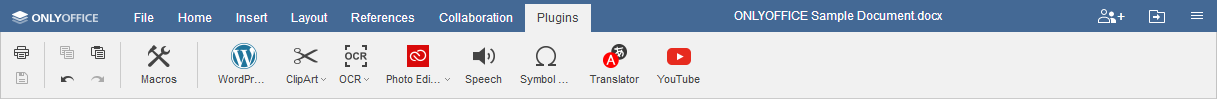
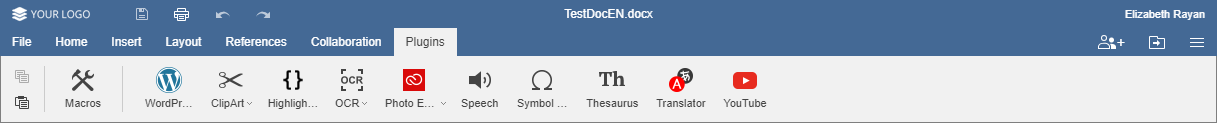
Recent changes to documentation (started merging of online, desktop and r7 documentation)

Changed region(s): [[0.0, 0.0303, 1.0, 1.0], [0.5933, 0.0909, 0.7806, 0.2121], [0.9055, 0.0606, 0.9992, 0.2424]]

diff --git a/OfficeWeb/apps/documenteditor/main/resources/help/ru/ProgramInterface/ProgramInterface.htm b/OfficeWeb/apps/documenteditor/main/resources/help/ru/ProgramInterface/ProgramInterface.htm
@@ -15,18 +15,39 @@
         </div>
 			<h1>Знакомство с пользовательским интерфейсом редактора документов</h1>
 			<p>В <b>редакторе документов</b> используется вкладочный интерфейс, в котором команды редактирования сгруппированы во вкладки по функциональности.</p>
-            <p><img alt="Окно редактора" src="../images/interface/editorwindow.png" /></p>
+            <div class="onlineDocumentFeatures">
+                <p>Окно онлайн-редактора документов:</p>
+                <p><img alt="Окно онлайн-редактора документов" src="../images/interface/editorwindow.png" /></p>
+            </div>
+            <div class="desktopDocumentFeatures">
+                <p>Окно десктопного редактора документов:</p>
+                <p><img alt="Окно десктопного редактора документов" src="../images/interface/desktop_editorwindow.png" /></p>
+            </div>
             <p>Интерфейс редактора состоит из следующих основных элементов:</p>
             <ol>
-                <li>В <b>Шапке редактора</b> отображается логотип, вкладки меню, название документа. Cправа также находятся три значка, с помощью которых можно <a href="../HelpfulHints/CollaborativeEditing.htm" onclick="onhyperlinkclick(this)">задать права доступа</a>, вернуться в список документов, настраивать <a href="../HelpfulHints/Navigation.htm" onclick="onhyperlinkclick(this)">параметры представления</a> и получать доступ к <a href="../HelpfulHints/AdvancedSettings.htm" onclick="onhyperlinkclick(this)">дополнительным параметрам</a> редактора.
-                <p><img alt="Значки в шапке редактора" src="../images/interface/rightpart.png" /></p>
+                <li>В <b>Шапке редактора</b> отображается логотип, <span class="desktopDocumentFeatures">вкладки открытых документов, </span> название документа и вкладки меню.
+                    <p>В левой части <b>Шапки редактора</b> расположены кнопки <b>Сохранить</b>, <b>Напечатать файл</b>, <b>Отменить</b> и <b>Повторить</b>.</p>
+                    <p><img alt="Значки в шапке редактора" src="../images/interface/leftpart.png" /></p>
+                    <p>В правой части <b>Шапки редактора</b> отображается имя пользователя и находятся следующие значки:</p>
+                    <ul>
+                        <li><img alt="Перейти к Документам" src="../images/gotodocuments.png" /> <b>Перейти к Документам</b>, с помощью которого <span class="desktopDocumentFeatures">в <em>десктопной версии</em> можно открыть окно <b>Проводника</b></span><span class="onlineDocumentFeatures">, в <em>онлайн-версии</em> можно вернуться к списку документов на портале</span>, чтобы выбрать другой файл.</li>
+                        <li><img alt="Значок Параметры представления" src="../images/viewsettingsicon.png" /> <b>Параметры представления</b>, с помощью которого можно настраивать <a href="../HelpfulHints/Navigation.htm" onclick="onhyperlinkclick(this)">параметры представления</a> и получать доступ к <a href="../HelpfulHints/AdvancedSettings.htm" onclick="onhyperlinkclick(this)">дополнительным параметрам</a> редактора.</li>
+                        <li><span class="desktopDocumentFeatures">После подключения к <em>онлайн-версии</em> также доступен значок</span> <img alt="Значок управления правами доступа" src="../images/access_rights.png" /> <b>Управление правами доступа</b>, с помощью которого можно <a href="../HelpfulHints/CollaborativeEditing.htm" onclick="onhyperlinkclick(this)">задать права доступа</a> к документам, сохраненным в облаке.</li>
+                    </ul>
+                    <!--<p><img alt="Значки в шапке редактора" src="../images/interface/rightpart.png" /></p>-->
                 </li>
-                <li>На <b>Верхней панели инструментов</b> отображается набор команд редактирования в зависимости от выбранной вкладки меню. В настоящее время доступны следующие вкладки: <a href="../ProgramInterface/FileTab.htm" onclick="onhyperlinkclick(this)">Файл</a>, <a href="../ProgramInterface/HomeTab.htm" onclick="onhyperlinkclick(this)">Главная</a>, <a href="../ProgramInterface/InsertTab.htm" onclick="onhyperlinkclick(this)">Вставка</a>, <a href="../ProgramInterface/LayoutTab.htm" onclick="onhyperlinkclick(this)">Макет</a>, <a href="../ProgramInterface/ReferencesTab.htm" onclick="onhyperlinkclick(this)">Ссылки</a>, <a href="../ProgramInterface/ReviewTab.htm" onclick="onhyperlinkclick(this)">Совместная работа</a>, <a href="../ProgramInterface/PluginsTab.htm" onclick="onhyperlinkclick(this)">Плагины</a>.
-                <p>Опции <b>Печать</b>, <b>Сохранить</b>, <b>Копировать</b>, <b>Вставить</b>, <b>Отменить</b> и <b>Повторить</b> всегда доступны в левой части <b>Верхней панели инструментов</b>, независимо от выбранной вкладки.</p>
-                <p><img alt="Значки на верхней панели инструментов" src="../images/interface/leftpart.png" /></p>
+                <li>На <b>Верхней панели инструментов</b> отображается набор команд редактирования в зависимости от выбранной вкладки меню. В настоящее время доступны следующие вкладки: <a href="../ProgramInterface/FileTab.htm" onclick="onhyperlinkclick(this)">Файл</a>, <a href="../ProgramInterface/HomeTab.htm" onclick="onhyperlinkclick(this)">Главная</a>, <a href="../ProgramInterface/InsertTab.htm" onclick="onhyperlinkclick(this)">Вставка</a>, <a href="../ProgramInterface/LayoutTab.htm" onclick="onhyperlinkclick(this)">Макет</a>, <a href="../ProgramInterface/ReferencesTab.htm" onclick="onhyperlinkclick(this)">Ссылки</a>, <a href="../ProgramInterface/ReviewTab.htm" onclick="onhyperlinkclick(this)">Совместная работа</a>, <span class="desktopDocumentFeatures">Защита</span>, <a href="../ProgramInterface/PluginsTab.htm" onclick="onhyperlinkclick(this)">Плагины</a>.
+                <p>Опции <img alt="Значок Копировать" src="../images/copy.png" /> <b>Копировать</b> и <img alt="Значок Вставить" src="../images/paste.png" /> <b>Вставить</b> всегда доступны в левой части <b>Верхней панели инструментов</b>, независимо от выбранной вкладки.</p>
                 </li>
                 <li>В <b>Строке состояния</b>, расположенной внизу окна редактора, находится указатель номера страницы, отображаются некоторые оповещения (например, "Все изменения сохранены" и т.д.), с ее помощью также можно <a href="../HelpfulHints/SpellChecking.htm" onclick="onhyperlinkclick(this)">задать язык текста, включить проверку орфографии</a>, включить <a href="../HelpfulHints/Review.htm" onclick="onhyperlinkclick(this)">режим отслеживания изменений</a>, настроить <a href="../HelpfulHints/Navigation.htm" onclick="onhyperlinkclick(this)">масштаб</a>.</li>
-                <li>На <b>Левой боковой панели</b> находятся значки, позволяющие использовать инструмент <a href="../HelpfulHints/Search.htm" onclick="onhyperlinkclick(this)">поиска и замены</a>, открыть панель <a href="../HelpfulHints/CollaborativeEditing.htm#comments" onclick="onhyperlinkclick(this)">Комментариев</a> и <a href="../HelpfulHints/CollaborativeEditing.htm#chat" onclick="onhyperlinkclick(this)">Чата</a>, обратиться в службу технической поддержки и посмотреть информацию о программе.</li>
+                <li>На <b>Левой боковой панели</b> находятся следующие значки: 
+                <ul>
+                    <li><img alt="Значок Поиск" src="../images/searchicon.png" /> - позволяет использовать инструмент <a href="../HelpfulHints/Search.htm" onclick="onhyperlinkclick(this)">поиска и замены</a>,</li>
+                    <li><img alt="Значок Комментариев" src="../images/commentsicon.png" /> - позволяет открыть панель <a href="../HelpfulHints/CollaborativeEditing.htm#comments" onclick="onhyperlinkclick(this)">Комментариев</a></li>
+                    <li><img alt="Значок Навигация" src="../images/navigationicon.png" /> - позволяет перейти в панель <a href="../UsageInstructions/CreateTableOfContents.htm" onclick="onhyperlinkclick(this)">Навигации</a> для управления заголовками</li>
+                    <li><span class="desktopDocumentFeatures">После подключения к <em>онлайн-версии</em> также доступен значок</span> <img alt="Значок Чата" src="../images/chaticon.png" />, позволяющий открыть панель <a href="../HelpfulHints/CollaborativeEditing.htm#chat" onclick="onhyperlinkclick(this)">Чата</a>, а также значки, позволяющие обратиться в службу технической поддержки и посмотреть информацию о программе.</li>
+                </ul>
+                </li>
                 <li><b>Правая боковая панель</b> позволяет настроить дополнительные параметры различных объектов. При выделении в тексте определенного объекта активируется соответствующий значок на правой боковой панели. Нажмите на этот значок, чтобы развернуть правую боковую панель.</li>
                 <li>Горизонтальная и вертикальная <b>Линейки</b> позволяют выравнивать текст и другие элементы в документе, настраивать поля, позиции табуляции и отступы абзацев.</li>
                 <li>В <b>Рабочей области</b> вы можете просматривать содержимое документа, вводить и редактировать данные.</li>

diff --git a/OfficeWeb/apps/documenteditor/main/resources/help/en/ProgramInterface/ProgramInterface.htm b/OfficeWeb/apps/documenteditor/main/resources/help/en/ProgramInterface/ProgramInterface.htm
@@ -15,18 +15,39 @@
         </div>
 			<h1>Introducing the Document Editor user interface</h1>
 			<p><b>Document Editor</b> uses a tabbed interface where editing commands are grouped into tabs by functionality.</p>
-            <p><img alt="Editor window" src="../images/interface/editorwindow.png" /></p>
+            <div class="onlineDocumentFeatures">
+                <p>Online Document Editor window:</p>
+                <p><img alt="Online Document Editor window" src="../images/interface/editorwindow.png" /></p>
+            </div>
+            <div class="desktopDocumentFeatures">
+                <p>Desktop Document Editor window:</p>
+                <p><img alt="Desktop Document Editor window" src="../images/interface/desktop_editorwindow.png" /></p>
+            </div>
             <p>The editor interface consists of the following main elements:</p>
             <ol>
-                <li><b>Editor header</b> displays the logo, menu tabs, document name as well as three icons on the right that allow to <a href="../HelpfulHints/CollaborativeEditing.htm" onclick="onhyperlinkclick(this)">set access rights</a>, return to the Documents list, adjust <a href="../HelpfulHints/Navigation.htm" onclick="onhyperlinkclick(this)">View Settings</a> and access the editor <a href="../HelpfulHints/AdvancedSettings.htm" onclick="onhyperlinkclick(this)">Advanced Settings</a>.
-                <p><img alt="Icons in the editor header" src="../images/interface/rightpart.png" /></p>
+                <li><b>Editor header</b> displays the logo, <span class="desktopDocumentFeatures">opened documents tabs, </span>document name and menu tabs.
+                    <p>In the left part of the <b>Editor header</b> there are the <b>Save</b>, <b>Print file</b>, <b>Undo</b> and <b>Redo</b> buttons.</p>
+                    <p><img alt="Icons in the editor header" src="../images/interface/leftpart.png" /></p>
+                    <p>In the right part of the <b>Editor header</b> the user name is displayed as well as the following icons:</p>
+                    <ul>
+                        <li><img alt="Go to Documents" src="../images/gotodocuments.png" /> <b>Go to Documents</b> - <span class="desktopDocumentFeatures">in the <em>desktop version</em>, it allows to open the <b>File explorer</b> window,</span> <span class="onlineDocumentFeatures">in the <em>online version</em> it allows to return to the portal documents list</span> to choose another file.</li>
+                        <li><img alt="View Settings icon" src="../images/viewsettingsicon.png" /> - allows to adjust <a href="../HelpfulHints/Navigation.htm" onclick="onhyperlinkclick(this)">View Settings</a> and access the editor <a href="../HelpfulHints/AdvancedSettings.htm" onclick="onhyperlinkclick(this)">Advanced Settings</a>.</li>
+                        <li><span class="desktopDocumentFeatures">After connecting to the <em>online version</em>, the following icon is also available:</span> <img alt="Manage document access rights icon" src="../images/access_rights.png" /> <b>Manage document access rights</b> - allows to <a href="../HelpfulHints/CollaborativeEditing.htm" onclick="onhyperlinkclick(this)">set access rights</a> for the documents stored in the cloud.</li>
+                    </ul>
+                    <!--<p><img alt="Icons in the editor header" src="../images/interface/rightpart.png" /></p>-->
                 </li>
-                <li><b>Top toolbar</b> displays a set of editing commands depending on the selected menu tab. Currently, the following tabs are available: <a href="../ProgramInterface/FileTab.htm" onclick="onhyperlinkclick(this)">File</a>, <a href="../ProgramInterface/HomeTab.htm" onclick="onhyperlinkclick(this)">Home</a>, <a href="../ProgramInterface/InsertTab.htm" onclick="onhyperlinkclick(this)">Insert</a>, <a href="../ProgramInterface/LayoutTab.htm" onclick="onhyperlinkclick(this)">Layout</a>, <a href="../ProgramInterface/ReferencesTab.htm" onclick="onhyperlinkclick(this)">References</a>, <a href="../ProgramInterface/ReviewTab.htm" onclick="onhyperlinkclick(this)">Collaboration</a>, <a href="../ProgramInterface/PluginsTab.htm" onclick="onhyperlinkclick(this)">Plugins</a>.
-                <p>The <b>Print</b>, <b>Save</b>, <b>Copy</b>, <b>Paste</b>, <b>Undo</b> and <b>Redo</b> options are always available at the left part of the <b>Top toolbar</b> regardless of the selected tab.</p>
-                <p><img alt="Icons on the top toolbar" src="../images/interface/leftpart.png" /></p>
+                <li><b>Top toolbar</b> displays a set of editing commands depending on the selected menu tab. Currently, the following tabs are available: <a href="../ProgramInterface/FileTab.htm" onclick="onhyperlinkclick(this)">File</a>, <a href="../ProgramInterface/HomeTab.htm" onclick="onhyperlinkclick(this)">Home</a>, <a href="../ProgramInterface/InsertTab.htm" onclick="onhyperlinkclick(this)">Insert</a>, <a href="../ProgramInterface/LayoutTab.htm" onclick="onhyperlinkclick(this)">Layout</a>, <a href="../ProgramInterface/ReferencesTab.htm" onclick="onhyperlinkclick(this)">References</a>, <a href="../ProgramInterface/ReviewTab.htm" onclick="onhyperlinkclick(this)">Collaboration</a>, <span class="desktopDocumentFeatures">Protection</span>, <a href="../ProgramInterface/PluginsTab.htm" onclick="onhyperlinkclick(this)">Plugins</a>.
+                <p>The <img alt="Copy icon" src="../images/copy.png" /> <b>Copy</b> and <img alt="Paste icon" src="../images/paste.png" /> <b>Paste</b> options are always available at the left part of the <b>Top toolbar</b> regardless of the selected tab.</p>
                 </li>
                 <li><b>Status bar</b> at the bottom of the editor window contains the page number indicator, displays some notifications (such as "All changes saved" etc.), allows to <a href="../HelpfulHints/SpellChecking.htm" onclick="onhyperlinkclick(this)">set text language, enable spell checking</a>, turn on the <a href="../HelpfulHints/Review.htm" onclick="onhyperlinkclick(this)">track changes mode</a>, adjust <a href="../HelpfulHints/Navigation.htm" onclick="onhyperlinkclick(this)">zoom</a>.</li>
-                <li><b>Left sidebar</b> contains icons that allow to use the <a href="../HelpfulHints/Search.htm" onclick="onhyperlinkclick(this)">Search and Replace</a> tool, open the <a href="../HelpfulHints/CollaborativeEditing.htm#comments" onclick="onhyperlinkclick(this)">Comments</a>, <a href="../HelpfulHints/CollaborativeEditing.htm#chat" onclick="onhyperlinkclick(this)">Chat</a> and <a href="../UsageInstructions/CreateTableOfContents.htm#navigation" onclick="onhyperlinkclick(this)">Navigation</a> panel, contact our support team and view the information about the program.</li>
+                <li><b>Left sidebar</b> contains the following icons: 
+                    <ul>
+                        <li><img alt="Search icon" src="../images/searchicon.png" /> - allows to use the <a href="../HelpfulHints/Search.htm" onclick="onhyperlinkclick(this)">Search and Replace</a> tool,</li>
+                        <li><img alt="Comments icon" src="../images/commentsicon.png" /> - allows to open the <a href="../HelpfulHints/CollaborativeEditing.htm#comments" onclick="onhyperlinkclick(this)">Comments</a> panel,</li>
+                        <li><img alt="Navigation icon" src="../images/navigationicon.png" /> - allows to go to the <a href="../UsageInstructions/CreateTableOfContents.htm#navigation" onclick="onhyperlinkclick(this)">Navigation</a> panel and manage headings,</li>
+                        <li><span class="desktopDocumentFeatures">After connecting to the <em>online version</em>, the following icon is also available:</span> <img alt="Chat icon" src="../images/chaticon.png" /> that allows to open the <a href="../HelpfulHints/CollaborativeEditing.htm#chat" onclick="onhyperlinkclick(this)">Chat</a> panel, as well as the icons that allow to contact our support team and view the information about the program.</li>
+                    </ul>
+                </li>
                 <li><b>Right sidebar</b> allows to adjust additional parameters of different objects. When you select a particular object in the text, the corresponding icon is activated at the right sidebar. Click this icon to expand the right sidebar.</li>
                 <li>Horizontal and vertical <b>Rulers</b> allow to align text and other elements in a document, set up margins, tab stops, and paragraph indents.</li>
                 <li><b>Working area</b> allows to view document content, enter and edit data.</li>

diff --git a/OfficeWeb/apps/documenteditor/main/resources/help/ru/ProgramInterface/FileTab.htm b/OfficeWeb/apps/documenteditor/main/resources/help/ru/ProgramInterface/FileTab.htm
@@ -18,13 +18,16 @@
             <p><img alt="Вкладка Файл" src="../images/interface/filetab.png" /></p>
             <p>С помощью этой вкладки вы можете выполнить следующие действия:</p>
             <ul>
-                <li><a href="../UsageInstructions/SavePrintDownload.htm" onclick="onhyperlinkclick(this)">сохранить</a> текущий файл (если отключена опция <b>Автосохранение</b>), <a href="../UsageInstructions/SavePrintDownload.htm" onclick="onhyperlinkclick(this)">скачать, распечатать</a> или <a href="../UsageInstructions/ViewDocInfo.htm" onclick="onhyperlinkclick(this)">переименовать</a> его,</li>
-                <li><a href="../UsageInstructions/OpenCreateNew.htm" onclick="onhyperlinkclick(this)">создать</a> новый документ или открыть недавно отредактированный,</li>
+                <li><span class="onlineDocumentFeatures">в <em>онлайн-версии</em> <a href="../UsageInstructions/SavePrintDownload.htm" onclick="onhyperlinkclick(this)">сохранить</a> текущий файл (если отключена опция <b>Автосохранение</b>), <a href="../UsageInstructions/SavePrintDownload.htm" onclick="onhyperlinkclick(this)">скачать как</a> (сохранить документ в выбранном формате на жестком диске компьютера), <a href="../UsageInstructions/SavePrintDownload.htm" onclick="onhyperlinkclick(this)">сохранить копию как</a>  (сохранить копию документа в выбранном формате на портале), <a href="../UsageInstructions/SavePrintDownload.htm" onclick="onhyperlinkclick(this)">распечатать</a> или <a href="../UsageInstructions/ViewDocInfo.htm" onclick="onhyperlinkclick(this)">переименовать</a> его,</span>
+                <p class="desktopDocumentFeatures">в <em>десктопной версии</em> <a href="../UsageInstructions/SavePrintDownload.htm" onclick="onhyperlinkclick(this)">сохранить</a> текущий файл в текущем формате и местоположении с помощью опции <b>Сохранить</b>, сохранить файл под другим именем, в другом местоположении или в другом формате с помощью опции <b> Сохранить как</b>, <a href="../UsageInstructions/SavePrintDownload.htm" onclick="onhyperlinkclick(this)">распечатать</a> файл,</p>
+                </li>
+                <li class="desktopDocumentFeatures">защитить файл с помощью пароля, изменить или удалить пароль (доступно только в <em>десктопной версии</em>);</li>
+                <li><a href="../UsageInstructions/OpenCreateNew.htm" onclick="onhyperlinkclick(this)">создать</a> новый документ или открыть недавно отредактированный <span class="desktopDocumentFeatures">(доступно после подключения к <em>онлайн-версии</em>)</span>,</li>
                 <li>просмотреть <a href="../UsageInstructions/ViewDocInfo.htm" onclick="onhyperlinkclick(this)">общие сведения</a> о документе,</li>
-                <li>управлять <a href="../UsageInstructions/ViewDocInfo.htm" onclick="onhyperlinkclick(this)">правами доступа</a>,</li>
-                <li>отслеживать <a href="../UsageInstructions/ViewDocInfo.htm" onclick="onhyperlinkclick(this)">историю версий</a>,</li>
+                <li>управлять <a href="../UsageInstructions/ViewDocInfo.htm" onclick="onhyperlinkclick(this)">правами доступа</a> <span class="desktopDocumentFeatures">(доступно после подключения к <em>онлайн-версии</em>)</span>,</li>
+                <li>отслеживать <a href="../UsageInstructions/ViewDocInfo.htm" onclick="onhyperlinkclick(this)">историю версий</a> <span class="desktopDocumentFeatures">(доступно после подключения к <em>онлайн-версии</em>)</span>,</li>
                 <li>открыть <a href="../HelpfulHints/AdvancedSettings.htm" onclick="onhyperlinkclick(this)">дополнительные параметры</a> редактора,</li>
-                <li>вернуться в список документов.</li>
+                <li><span class="desktopDocumentFeatures">в <em>десктопной версии</em> открыть окно <b>Проводника</b>,</span><span class="onlineDocumentFeatures"> в <em>онлайн-версии</em> вернуться к списку документов на портале, чтобы выбрать другой файл</span>.</li>
             </ul>
 		</div>
 	</body>

diff --git a/OfficeWeb/apps/documenteditor/main/resources/help/ru/ProgramInterface/PluginsTab.htm b/OfficeWeb/apps/documenteditor/main/resources/help/ru/ProgramInterface/PluginsTab.htm
@@ -19,13 +19,15 @@
             <p>Кнопка <b>Macros</b> позволяет открыть окно, в котором можно создавать собственные макросы и запускать их. Для получения дополнительной информации о макросах, пожалуйста, обратитесь к нашей <a target="_blank" href="https://api.onlyoffice.com/plugin/macros" onclick="onhyperlinkclick(this)">Документации по API</a>.</p>
             <p>В настоящее время по умолчанию доступны следующие плагины:</p>		
             <ul>
-                <li><b>ClipArt</b> позволяет добавлять в документ изображения из коллекции картинок,</li>
-                <li><b>OCR</b> позволяет распознавать текст с картинки и вставлять его в текст документа,</li>
-                <li><b>PhotoEditor</b> позволяет редактировать изображения: обрезать, изменять размер, применять эффекты и так далее,</li>
-                <li><b>Speech</b> позволяет преобразовать выделенный текст в речь,</li>
-                <li><b>Symbol Table</b> позволяет вставлять в текст специальные символы,</li>
-                <li><b>Translator</b> позволяет переводить выделенный текст на другие языки,</li>
-                <li><b>YouTube</b> позволяет встраивать в документ видео с YouTube.</li>
+                <li><b>Клипарт</b> - позволяет добавлять в документ изображения из коллекции картинок,</li>
+                <li><b>Подсветка кода</b> - позволяет подсвечивать синтаксис кода, выбирая нужный язык, стиль, цвет фона,</li>
+                <li><b>Распознавание текста</b> - позволяет распознавать текст с картинки и вставлять его в текст документа,</li>
+                <li><b>Фоторедактор</b> - позволяет редактировать изображения: обрезать, изменять размер, применять эффекты и так далее,</li>
+                <li><b>Речь</b> - позволяет преобразовать выделенный текст в речь,</li>
+                <li><b>Таблица символов</b> - позволяет вставлять в текст специальные символы,</li>
+                <li><b>Синонимы</b> - позволяет находить синонимы и антонимы какого-либо слова и заменять его на выбранный вариант,</li>
+                <li><b>Переводчик</b> - позволяет переводить выделенный текст на другие языки,</li>
+                <li><b>YouTube</b> - позволяет встраивать в документ видео с YouTube.</li>
             </ul>
             <p>Плагины <b>Wordpress</b> и <b>EasyBib</b> можно использовать, если подключить соответствующие сервисы в настройках портала. Можно воспользоваться следующими инструкциями <a target="_blank" href="https://helpcenter.onlyoffice.com/server/windows/community/authorization-keys.aspx" onclick="onhyperlinkclick(this)">для серверной версии</a> или <a target="_blank" href="https://helpcenter.onlyoffice.com/tipstricks/authorization-keys-saas.aspx" onclick="onhyperlinkclick(this)">для SaaS-версии</a>. </p>
             <p>Для получения дополнительной информации о плагинах, пожалуйста, обратитесь к нашей <a target="_blank" href="https://api.onlyoffice.com/plugin/basic" onclick="onhyperlinkclick(this)">Документации по API</a>. Все существующие в настоящий момент примеры плагинов с открытым исходным кодом доступны на <a target="_blank" href="https://github.com/ONLYOFFICE/sdkjs-plugins" onclick="onhyperlinkclick(this)">GitHub</a>.</p>

diff --git a/OfficeWeb/apps/documenteditor/main/resources/help/en/ProgramInterface/FileTab.htm b/OfficeWeb/apps/documenteditor/main/resources/help/en/ProgramInterface/FileTab.htm
@@ -18,13 +18,16 @@
             <p><img alt="File tab" src="../images/interface/filetab.png" /></p>
             <p>Using this tab, you can:</p>
             <ul>
-                <li><a href="../UsageInstructions/SavePrintDownload.htm" onclick="onhyperlinkclick(this)">save</a> the current file (in case the <b>Autosave</b> option is disabled), <a href="../UsageInstructions/SavePrintDownload.htm" onclick="onhyperlinkclick(this)">download, print</a> or <a href="../UsageInstructions/ViewDocInfo.htm" onclick="onhyperlinkclick(this)">rename</a> it,</li>
-                <li><a href="../UsageInstructions/OpenCreateNew.htm" onclick="onhyperlinkclick(this)">create</a> a new document or open a recently edited one,</li>
+                <li><span class="onlineDocumentFeatures">in the <em>online version</em>, <a href="../UsageInstructions/SavePrintDownload.htm" onclick="onhyperlinkclick(this)">save</a> the current file (in case the <b>Autosave</b> option is disabled), <a href="../UsageInstructions/SavePrintDownload.htm" onclick="onhyperlinkclick(this)">download as</a> (save the document in the selected format to the computer hard disk drive), <a href="../UsageInstructions/SavePrintDownload.htm" onclick="onhyperlinkclick(this)">save copy as</a> (save a copy of the document in the selected format to the portal documents), <a href="../UsageInstructions/SavePrintDownload.htm" onclick="onhyperlinkclick(this)">print</a> or <a href="../UsageInstructions/ViewDocInfo.htm" onclick="onhyperlinkclick(this)">rename</a> it,</span>
+                <p class="desktopDocumentFeatures">in the <em>desktop version</em>, <a href="../UsageInstructions/SavePrintDownload.htm" onclick="onhyperlinkclick(this)">save</a> the current file keeping the current format and location using the <b>Save</b> option or save the current file with a different name, location or format using the <b>Save as</b> option, <a href="../UsageInstructions/SavePrintDownload.htm" onclick="onhyperlinkclick(this)">print</a> the file.</p>
+                </li>
+                <li><a href="../UsageInstructions/OpenCreateNew.htm" onclick="onhyperlinkclick(this)">create</a> a new document or open a recently edited one <span class="desktopDocumentFeatures">(available after connecting to the <em>online version</em>)</span>,</li>
+                <li class="desktopDocumentFeatures">protect the file using a password (available in the <em>desktop version</em> only);</li>
                 <li>view <a href="../UsageInstructions/ViewDocInfo.htm" onclick="onhyperlinkclick(this)">general information</a> about the document,</li>
-                <li>manage <a href="../UsageInstructions/ViewDocInfo.htm" onclick="onhyperlinkclick(this)">access rights</a>,</li>
-                <li>track <a href="../UsageInstructions/ViewDocInfo.htm" onclick="onhyperlinkclick(this)">version history</a>,</li>
+                <li>manage <a href="../UsageInstructions/ViewDocInfo.htm" onclick="onhyperlinkclick(this)">access rights</a> <span class="desktopDocumentFeatures">(available after connecting to the <em>online version</em>)</span>,</li>
+                <li>track <a href="../UsageInstructions/ViewDocInfo.htm" onclick="onhyperlinkclick(this)">version history</a> <span class="desktopDocumentFeatures">(available after connecting to the <em>online version</em>)</span>,</li>
                 <li>access the editor <a href="../HelpfulHints/AdvancedSettings.htm" onclick="onhyperlinkclick(this)">Advanced Settings</a>,</li>
-                <li>return to the Documents list.</li>
+                <li><span class="desktopDocumentFeatures">in the <em>desktop version</em>, open the <b>File explorer</b> window,</span><span class="onlineDocumentFeatures"> in the <em>online version</em> return to the portal documents list</span> to choose another file.</li>
             </ul>
 		</div>
 	</body>

diff --git a/OfficeWeb/apps/documenteditor/main/resources/help/ru/ProgramInterface/ReviewTab.htm b/OfficeWeb/apps/documenteditor/main/resources/help/ru/ProgramInterface/ReviewTab.htm
@@ -18,14 +18,14 @@
             <p><img alt="Вкладка Совместная работа" src="../images/interface/reviewtab.png" /></p>	
             <p>С помощью этой вкладки вы можете выполнить следующие действия:</p>
             <ul>
-                <li>задавать <a href="../HelpfulHints/CollaborativeEditing.htm" onclick="onhyperlinkclick(this)">настройки совместного доступа</a>,</li>
-                <li>переключаться между <a href="../HelpfulHints/CollaborativeEditing.htm" onclick="onhyperlinkclick(this)">Строгим и Быстрым</a> режимами совместного редактирования,</li>
+                <li class="onlineDocumentFeatures">задавать <a href="../HelpfulHints/CollaborativeEditing.htm" onclick="onhyperlinkclick(this)">настройки совместного доступа</a> <span class="desktopDocumentFeatures">(доступно после подключения к <em>онлайн-версии</em>)</span>,</li>
+                <li class="onlineDocumentFeatures">переключаться между <a href="../HelpfulHints/CollaborativeEditing.htm" onclick="onhyperlinkclick(this)">Строгим и Быстрым</a> режимами совместного редактирования <span class="desktopDocumentFeatures">(доступно после подключения к <em>онлайн-версии</em>)</span>,</li>
                 <li>добавлять <a href="../HelpfulHints/CollaborativeEditing.htm#comments" onclick="onhyperlinkclick(this)">комментарии</a> к документу,</li>
                 <li>включать функцию <a href="../HelpfulHints/Review.htm" onclick="onhyperlinkclick(this)">отслеживания изменений</a>,</li>
                 <li>выбирать <a href="../HelpfulHints/Review.htm#displaymode" onclick="onhyperlinkclick(this)">режим отображения изменений</a>,</li>
                 <li>управлять <a href="../HelpfulHints/Review.htm#managechanges" onclick="onhyperlinkclick(this)">предложенными изменениями</a>,</li>
-                <li>открывать панель <a href="../HelpfulHints/CollaborativeEditing.htm#chat" onclick="onhyperlinkclick(this)">Чата</a>,</li>
-                <li>отслеживать <a href="../UsageInstructions/ViewDocInfo.htm" onclick="onhyperlinkclick(this)">историю версий</a>.</li>
+                <li class="onlineDocumentFeatures">открывать панель <a href="../HelpfulHints/CollaborativeEditing.htm#chat" onclick="onhyperlinkclick(this)">Чата</a> <span class="desktopDocumentFeatures">(доступно после подключения к <em>онлайн-версии</em>)</span>,</li>
+                <li class="onlineDocumentFeatures">отслеживать <a href="../UsageInstructions/ViewDocInfo.htm" onclick="onhyperlinkclick(this)">историю версий</a> <span class="desktopDocumentFeatures">(доступно после подключения к <em>онлайн-версии</em>)</span>.</li>
             </ul>
 		</div>
 	</body>

diff --git a/OfficeWeb/apps/documenteditor/main/resources/help/en/ProgramInterface/ReviewTab.htm b/OfficeWeb/apps/documenteditor/main/resources/help/en/ProgramInterface/ReviewTab.htm
@@ -18,14 +18,14 @@
             <p><img alt="Collaboration tab" src="../images/interface/reviewtab.png" /></p>	
             <p>Using this tab, you can:</p>
             <ul>
-                <li>specify <a href="../HelpfulHints/CollaborativeEditing.htm" onclick="onhyperlinkclick(this)">sharing settings</a>,</li>
-                <li>switch between the <a href="../HelpfulHints/CollaborativeEditing.htm" onclick="onhyperlinkclick(this)">Strict and Fast</a> co-editing modes,</li>
+                <li class="onlineDocumentFeatures">specify <a href="../HelpfulHints/CollaborativeEditing.htm" onclick="onhyperlinkclick(this)">sharing settings</a> <span class="desktopDocumentFeatures">(available after connecting to the <em>online version</em>)</span>,</li>
+                <li class="onlineDocumentFeatures">switch between the <a href="../HelpfulHints/CollaborativeEditing.htm" onclick="onhyperlinkclick(this)">Strict and Fast</a> co-editing modes <span class="desktopDocumentFeatures">(available after connecting to the <em>online version</em>)</span>,</li>
                 <li>add <a href="../HelpfulHints/CollaborativeEditing.htm#comments" onclick="onhyperlinkclick(this)">comments</a> to the document,</li>
                 <li>enable the <a href="../HelpfulHints/Review.htm" onclick="onhyperlinkclick(this)">Track Changes</a> feature,</li>
                 <li>choose the <a href="../HelpfulHints/Review.htm#displaymode" onclick="onhyperlinkclick(this)">changes display mode</a>,</li>
                 <li>manage the <a href="../HelpfulHints/Review.htm#managechanges" onclick="onhyperlinkclick(this)">suggested changes</a>,</li>
-                <li>open the <a href="../HelpfulHints/CollaborativeEditing.htm#chat" onclick="onhyperlinkclick(this)">Chat</a> panel,</li>
-                <li>track <a href="../UsageInstructions/ViewDocInfo.htm" onclick="onhyperlinkclick(this)">version history</a>.</li>
+                <li class="onlineDocumentFeatures">open the <a href="../HelpfulHints/CollaborativeEditing.htm#chat" onclick="onhyperlinkclick(this)">Chat</a> panel <span class="desktopDocumentFeatures">(available after connecting to the <em>online version</em>)</span>,</li>
+                <li class="onlineDocumentFeatures">track <a href="../UsageInstructions/ViewDocInfo.htm" onclick="onhyperlinkclick(this)">version history</a> <span class="desktopDocumentFeatures">(available after connecting to the <em>online version</em>)</span>.</li>
             </ul>
 		</div>
 	</body>

diff --git a/OfficeWeb/apps/documenteditor/main/resources/help/ru/ProgramInterface/InsertTab.htm b/OfficeWeb/apps/documenteditor/main/resources/help/ru/ProgramInterface/InsertTab.htm
@@ -18,6 +18,7 @@
             <p><img alt="Вкладка Вставка" src="../images/interface/inserttab.png" /></p>
             <p>С помощью этой вкладки вы можете выполнить следующие действия:</p>
             <ul>
+                <li>вставлять пустую страницу,</li>
                 <li>вставлять <a href="../UsageInstructions/PageBreaks.htm" onclick="onhyperlinkclick(this)">разрывы страниц</a>, <a href="../UsageInstructions/SectionBreaks.htm" onclick="onhyperlinkclick(this)">разрывы разделов</a> и <a href="../UsageInstructions/SetPageParameters.htm#columns" onclick="onhyperlinkclick(this)">разрывы колонок</a>,</li>
                 <li>вставлять <a href="../UsageInstructions/InsertHeadersFooters.htm" onclick="onhyperlinkclick(this)">колонтитулы</a> и <a href="../UsageInstructions/InsertPageNumbers.htm" onclick="onhyperlinkclick(this)">номера страниц</a>,</li>
                 <li>вставлять <a href="../UsageInstructions/InsertTables.htm" onclick="onhyperlinkclick(this)">таблицы</a>, <a href="../UsageInstructions/InsertImages.htm" onclick="onhyperlinkclick(this)">изображения</a>, <a href="../UsageInstructions/InsertCharts.htm" onclick="onhyperlinkclick(this)">диаграммы</a>, <a href="../UsageInstructions/InsertAutoshapes.htm" onclick="onhyperlinkclick(this)">фигуры</a>,</li>

diff --git a/OfficeWeb/apps/documenteditor/main/resources/help/ru/ProgramInterface/HomeTab.htm b/OfficeWeb/apps/documenteditor/main/resources/help/ru/ProgramInterface/HomeTab.htm
@@ -28,7 +28,7 @@
                 <li>отображать и скрывать <a href="../UsageInstructions/NonprintingCharacters.htm" onclick="onhyperlinkclick(this)">непечатаемые символы</a>,</li>
                 <li><a href="../UsageInstructions/CopyClearFormatting.htm" onclick="onhyperlinkclick(this)">копировать и очищать</a> форматирование текста,</li>
                 <li>изменять <a href="../UsageInstructions/ChangeColorScheme.htm" onclick="onhyperlinkclick(this)">цветовую схему</a>,</li>
-                <li>использовать функцию <a href="../UsageInstructions/UseMailMerge.htm" onclick="onhyperlinkclick(this)">слияния</a>,</li>
+                <li class="onlineDocumentFeatures">использовать функцию <a href="../UsageInstructions/UseMailMerge.htm" onclick="onhyperlinkclick(this)">слияния</a> <span class="desktopDocumentFeatures">(доступно после подключения к <em>онлайн-версии</em>)</span>,</li>
                 <li>управлять <a href="../UsageInstructions/FormattingPresets.htm" onclick="onhyperlinkclick(this)">стилями</a>.</li>
             </ul>
 		</div>

diff --git a/OfficeWeb/apps/documenteditor/main/resources/help/en/ProgramInterface/InsertTab.htm b/OfficeWeb/apps/documenteditor/main/resources/help/en/ProgramInterface/InsertTab.htm
@@ -18,6 +18,7 @@
             <p><img alt="Insert tab" src="../images/interface/inserttab.png" /></p>
             <p>Using this tab, you can:</p>
             <ul>
+                <li>insert a blank page,</li>
                 <li>insert <a href="../UsageInstructions/PageBreaks.htm" onclick="onhyperlinkclick(this)">page breaks</a>, <a href="../UsageInstructions/SectionBreaks.htm" onclick="onhyperlinkclick(this)">section breaks</a> and <a href="../UsageInstructions/SetPageParameters.htm#columns" onclick="onhyperlinkclick(this)">column breaks</a>,</li>
                 <li>insert <a href="../UsageInstructions/InsertHeadersFooters.htm" onclick="onhyperlinkclick(this)">headers and footers</a> and <a href="../UsageInstructions/InsertPageNumbers.htm" onclick="onhyperlinkclick(this)">page numbers</a>,</li>
                 <li>insert <a href="../UsageInstructions/InsertTables.htm" onclick="onhyperlinkclick(this)">tables</a>, <a href="../UsageInstructions/InsertImages.htm" onclick="onhyperlinkclick(this)">images</a>, <a href="../UsageInstructions/InsertCharts.htm" onclick="onhyperlinkclick(this)">charts</a>, <a href="../UsageInstructions/InsertAutoshapes.htm" onclick="onhyperlinkclick(this)">shapes</a>,</li>

diff --git a/OfficeWeb/apps/documenteditor/main/resources/help/en/ProgramInterface/PluginsTab.htm b/OfficeWeb/apps/documenteditor/main/resources/help/en/ProgramInterface/PluginsTab.htm
@@ -21,9 +21,11 @@
             <ul>
                 <li><b>ClipArt</b> allows to add images from the clipart collection into your document,</li>
                 <li><b>OCR</b> allows to recognize text included into a picture and insert it into the document text,</li>
+                <li><b>Highlight code</b> allows to highlight syntax of the code selecting the necessary language, style, background color,</li>
                 <li><b>PhotoEditor</b> allows to edit images: crop, resize them, apply effects etc.,</li>
                 <li><b>Speech</b> allows to convert the selected text into speech,</li>
                 <li><b>Symbol Table</b> allows to insert special symbols into your text,</li>
+                <li><b>Thesaurus</b> allows to search for synonyms and antonyms of a word and replace it with the selected one,</li>
                 <li><b>Translator</b> allows to translate the selected text into other languages,</li>
                 <li><b>YouTube</b> allows to embed YouTube videos into your document.</li>
             </ul>

diff --git a/OfficeWeb/apps/documenteditor/main/resources/help/en/ProgramInterface/HomeTab.htm b/OfficeWeb/apps/documenteditor/main/resources/help/en/ProgramInterface/HomeTab.htm
@@ -28,7 +28,7 @@
                 <li>show/hide <a href="../UsageInstructions/NonprintingCharacters.htm" onclick="onhyperlinkclick(this)">nonprinting characters</a>,</li>
                 <li><a href="../UsageInstructions/CopyClearFormatting.htm" onclick="onhyperlinkclick(this)">copy/clear</a> text formatting,</li>
                 <li>change <a href="../UsageInstructions/ChangeColorScheme.htm" onclick="onhyperlinkclick(this)">color scheme</a>,</li>
-                <li>use <a href="../UsageInstructions/UseMailMerge.htm" onclick="onhyperlinkclick(this)">Mail Merge</a>,</li>
+                <li class="onlineDocumentFeatures">use <a href="../UsageInstructions/UseMailMerge.htm" onclick="onhyperlinkclick(this)">Mail Merge</a> <span class="desktopDocumentFeatures">(available after connecting to the <em>online version</em>)</span>,</li>
                 <li>manage <a href="../UsageInstructions/FormattingPresets.htm" onclick="onhyperlinkclick(this)">styles</a>.</li>
             </ul>
 		</div>
